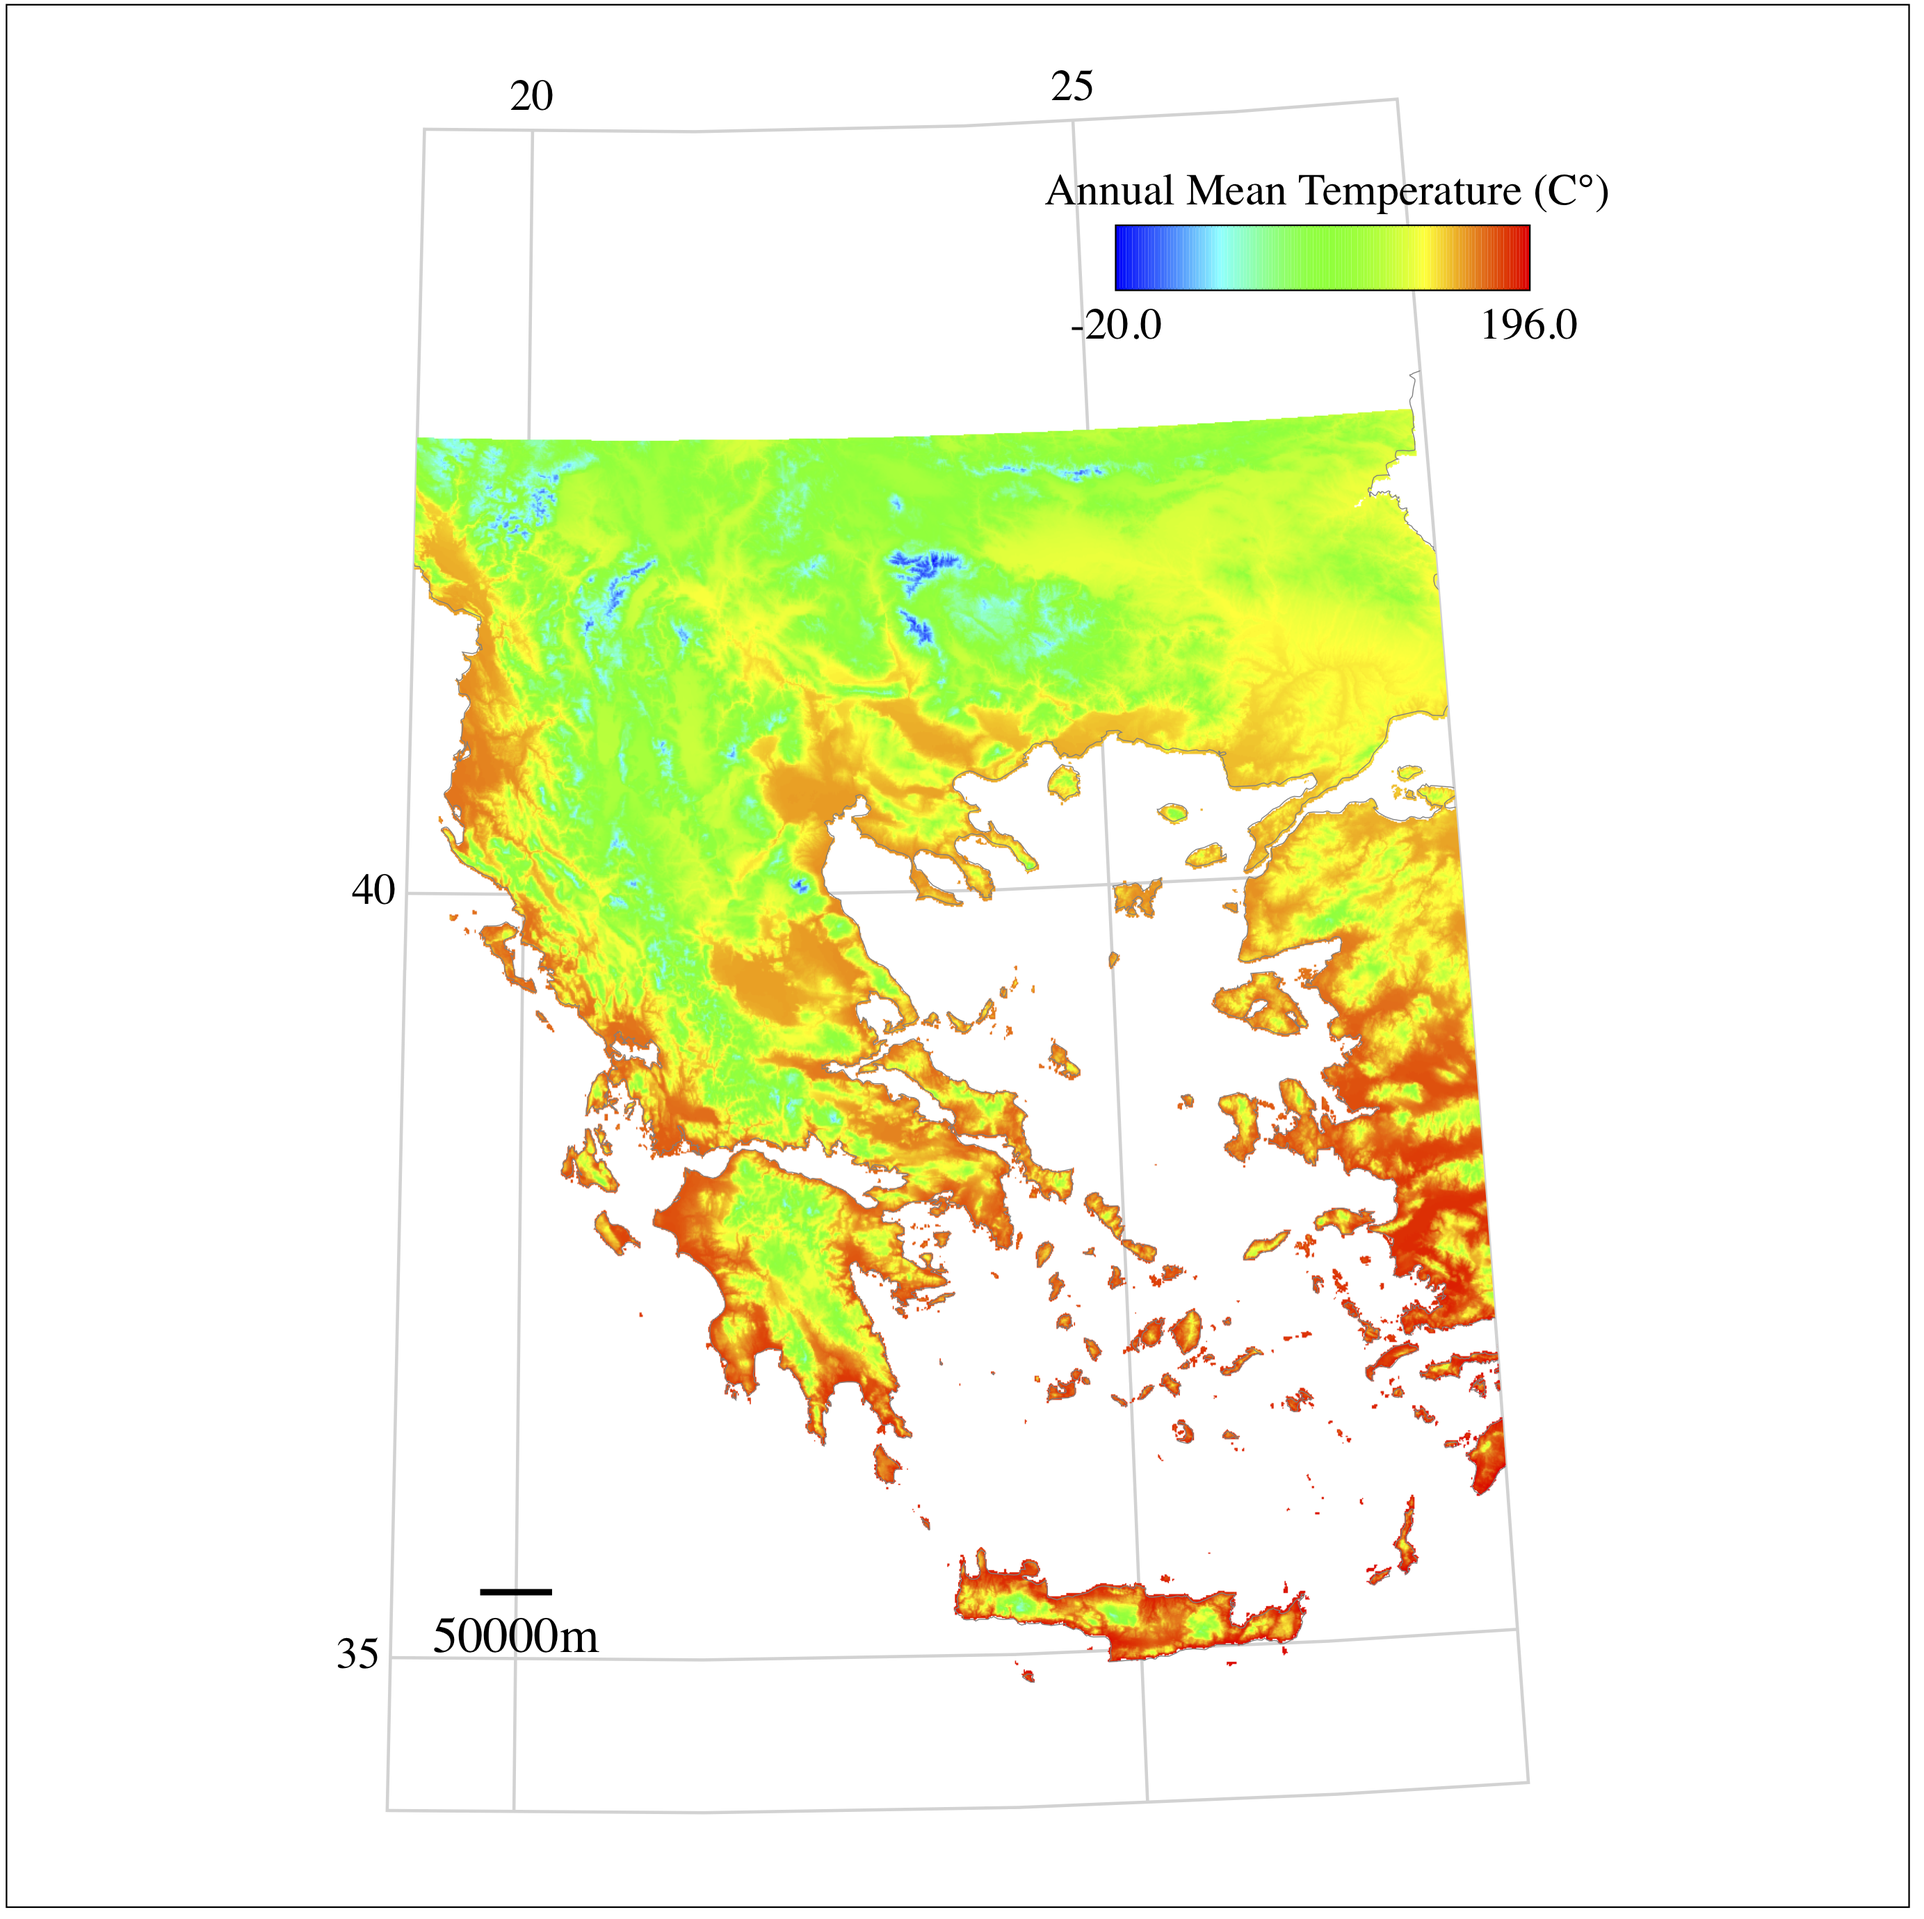
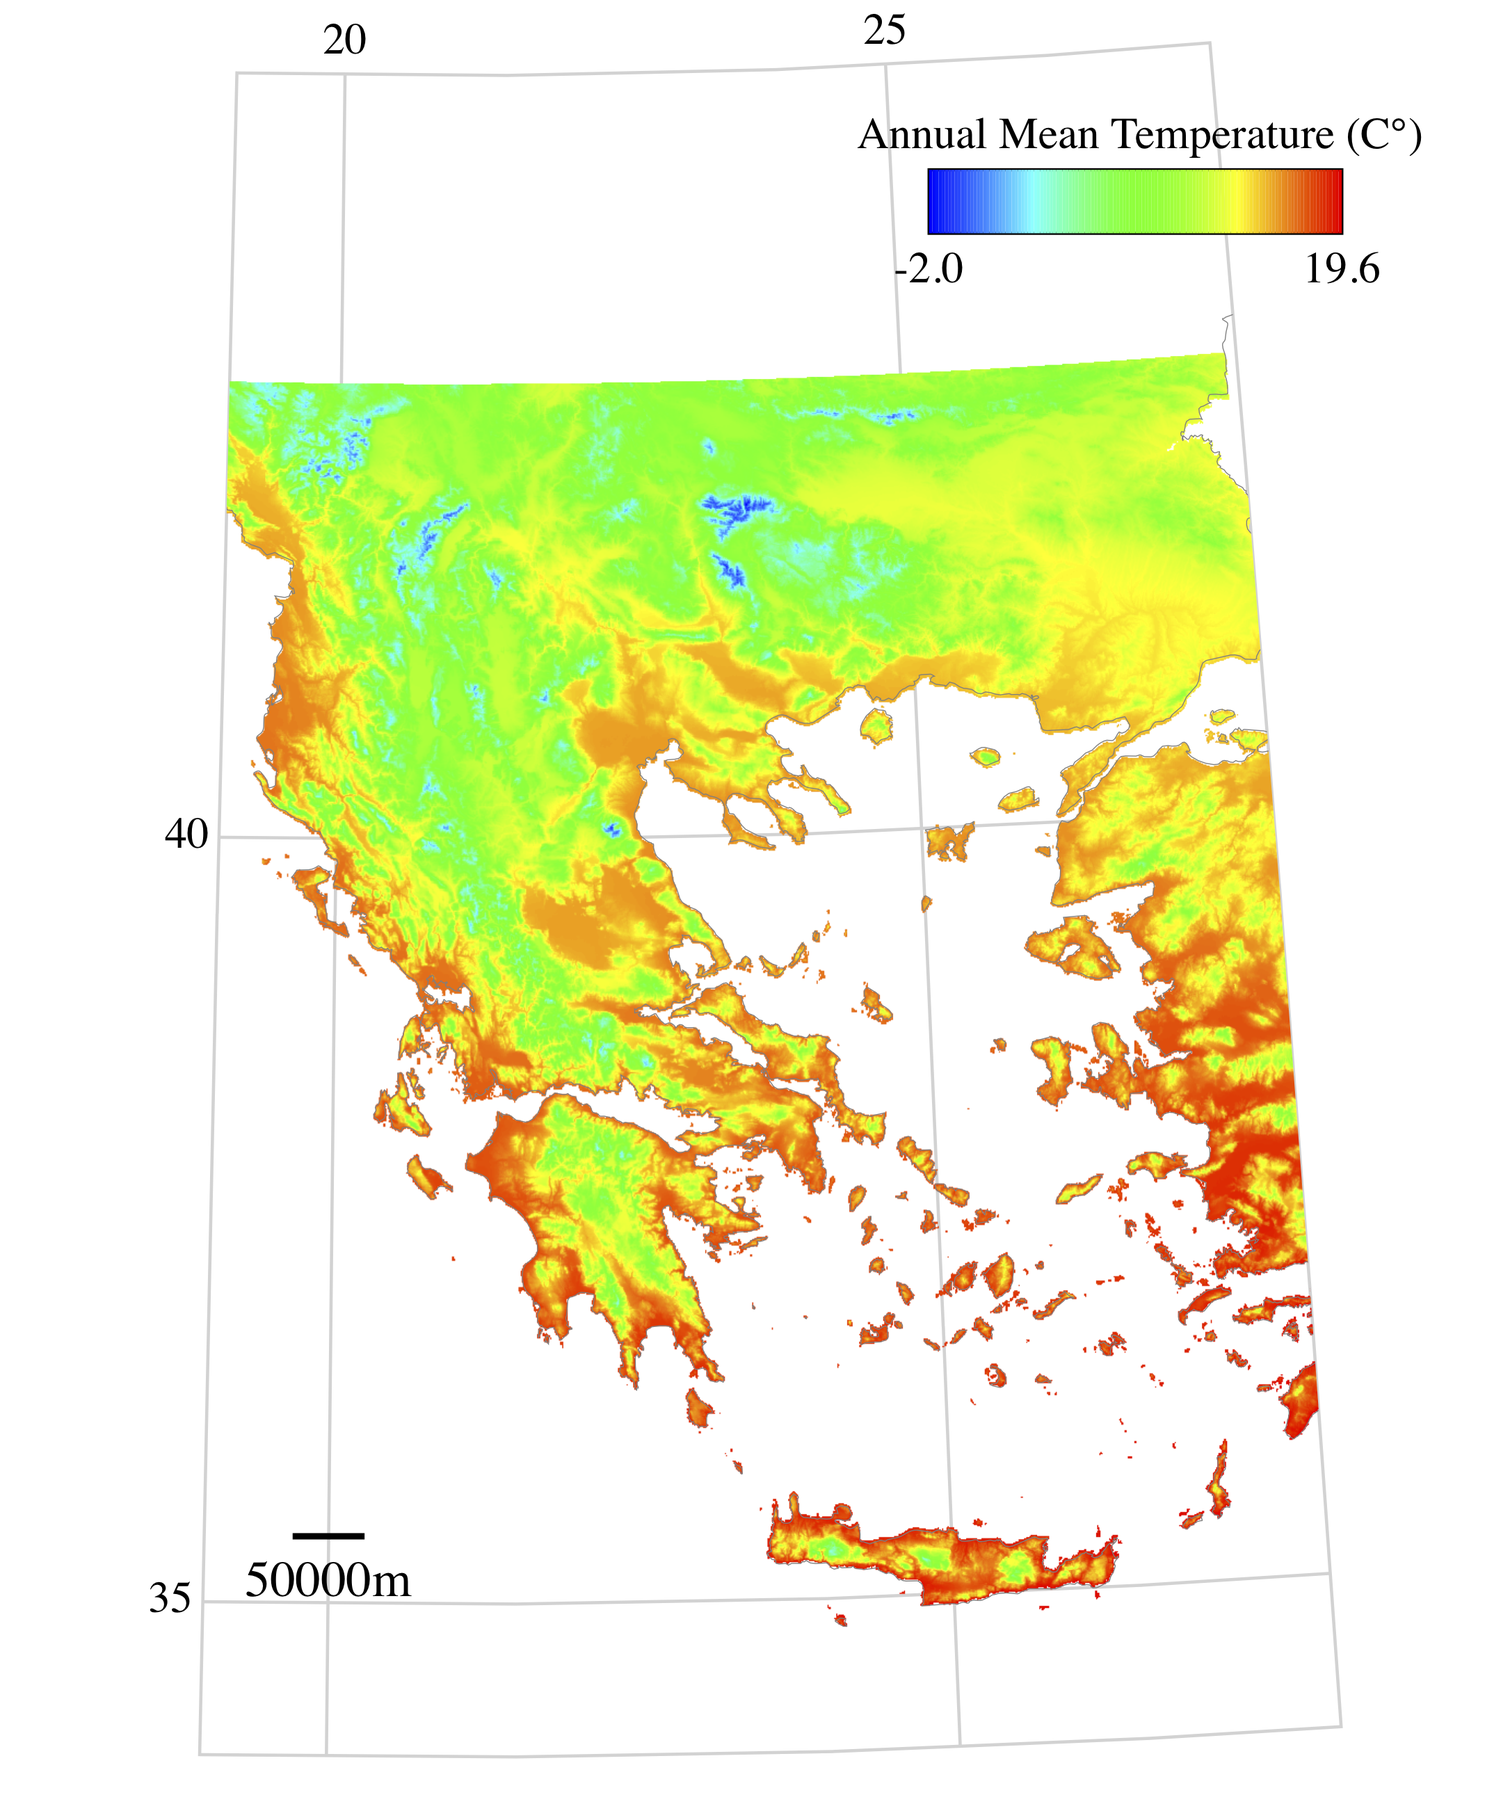
added parallel in projection

diff --git a/strabo.js b/strabo.js
@@ -1,5 +1,5 @@
 
-function baseMap (container, projection, rotate, clAngle, extentBounds) {
+function baseMap (container, extentBounds, projection, rotate, clAngle, parallel) {
 
 	const mainPlot = d3.select('#' + container);
 
@@ -18,6 +18,8 @@ function baseMap (container, projection, rotate, clAngle, extentBounds) {
 	const proj = eval('d3.geo' + projection + '()');
 	proj.scale(1).translate([0,0]).precision(0.1)
 		.rotate([rotate[0], rotate[1], rotate[2]]).clipAngle(clAngle);
+
+	if (parallel) {proj.parallel(parallel)};
 
 	const path = d3.geoPath().projection(proj);
 

diff --git a/README.md b/README.md
@@ -73,10 +73,12 @@ svg.append('g').attr('id', 'land')
 svg.append('g').attr('id', 'img')
 
 var baseProj = baseMap(container = 'main',
+                       extentBounds = [[-180, -90], [179.9999, 90]],
                        projection = 'Orthographic',
                        rotate = [-50, -50, 0],
-                       clAngle = 90, 
-                       extentBounds = [[-180, -90], [179.9999, 90]]);
+                       clAngle = 90,
+                       parallel = null
+                       );
 
 plotGraticule(container = 'grat',
               base = baseProj,
@@ -118,6 +120,75 @@ And the two CSS rules
 ```
 
 ![alt text](examples/exampl1.png?raw=true)
+
+The same can be done in an equal area projection. In the following example we use the Behrmann cylindrical equal area projection
+(standard parallels: 30°N, 30°S). The specific projection is defined using the 'parallel' attribute.
+
+```bash
+# again first clip the raster (it's in wgs84) to the desired extent
+#clip
+!gdalwarp -te -180 0 180 90 -t_srs EPSG:4326 worldMarbleNoWater.tif short.tif -overwrite
+#reproject to Behrmann's projection
+!gdalwarp  -wo SOURCE_EXTRA=200 -wo SAMPLE_GRID=YES -t_srs '+proj=cea +lon_0=0 +lat_ts=30 +x_0=0 +y_0=0 +datum=WGS84 +ellps=WGS84 +units=m +no_defs ' short.tif shortBehr.tif -overwrite
+#tiff to png
+!gdal_translate shortBehr.tif world.png -of PNG -outsize 50% 50%
+```
+
+The two things we change here is the definition of the projection and the image center/bounds. We also add the graticule text.
+
+```javascript
+var baseProj = baseMap(container = 'main',
+                        extentBounds = [[-179, -90], [180, 90]],
+                        projection = 'CylindricalEqualArea',
+                        rotate = [0, 0, 0],
+                        clAngle = 0,
+                        parallel = 30
+                        );
+
+plotGraticule(container = 'grat',
+            base = baseProj,
+            step = [20, 20],
+            plotGratLines = true,
+            plotOutline = true,
+            sphereR = 0,
+            plotGratText = false,
+            cssStyle = 'graticuleLines',
+            latTxtLon = 0,
+            lonTxtLat = 0,
+            lonOff = 0,
+            latOff = 0);
+
+plotGraticule(container = 'gratTxt',
+            base = baseProj,
+            step = [20, 20],
+            plotGratLines = false,
+            plotOutline = false,
+            sphereR = 0,
+            plotGratText = true,
+            cssStyle = 'lonLatLabels',
+            latTxtLon = -180,
+            lonTxtLat = -90,
+            lonOff = 10,
+            latOff = -10);
+
+plotBase(container ='land',
+         base = baseProj, topoFile = 'world_10m.topojson',
+         geomName = 'world_10m',
+         plotCoast = false,
+         plotLand = true,
+         plotCountries = false,
+         cssStyle = 'land');
+
+plotImage(container = 'img',
+        base = baseProj,
+        imageFile = 'world.png',
+        imgBounds = [[-179.99999999832752, -0.005734303851737857], [179.99275047022692, 89.99933519984673]],
+        imgCenter = [-0.0036247640502935683, 30.107948494285786],
+        sphere = false)
+```
+
+![alt text](examples/exampl1a.png?raw=true)
+
 
 ### Plot points on images
 We can also plot simple points colored according to their attributes. In this example we combine the same image as above
@@ -167,10 +238,12 @@ gdal_translate shortOrtho.tif world.png -of PNG -outsize 20% 20%
     svg.append('g').attr('id', 'colBarPoint')
 
     var baseProj = baseMap(container = 'main',
+                           extentBounds = [[-180, 0], [179.9999, 90]],
                            projection = 'Orthographic',
                            rotate = [0, -90, 0],
-                           clAngle = 90, 
-                           extentBounds = [[-180, 0], [179.9999, 90]]);
+                           clAngle = 90,
+                           parallel = null
+                           );
     
     plotGraticule(container = 'grat',
                   base = baseProj,
@@ -263,10 +336,12 @@ svg.append('g').attr('id', 'scale')
 svg.append('g').attr('id', 'colBar')
 
 var baseProj = baseMap(container = 'main',
+                        extentBounds = [[0, 50], [40, 70]],
                         projection = 'ConicConformal',
                         rotate = [-20, 0, 0],
                         clAngle = 0, 
-                        extentBounds = [[0, 50], [40, 70]]);
+                        parallel = null
+                        );
     
 plotGraticule(container = 'grat',
             base = baseProj,
@@ -395,10 +470,12 @@ svg.append('g').attr('id', 'colBar')
 
 
 var baseProj = baseMap(container = 'main',
+                        extentBounds = [[19, 34], [28, 45]],
                         projection = 'TransverseMercator',
                         rotate = [-21, 0, 0],
                         clAngle = 0, 
-                        extentBounds = [[19, 34], [28, 45]]);
+                        parallel = null
+                        );
     
 plotGraticule(container = 'grat',
             base = baseProj,
